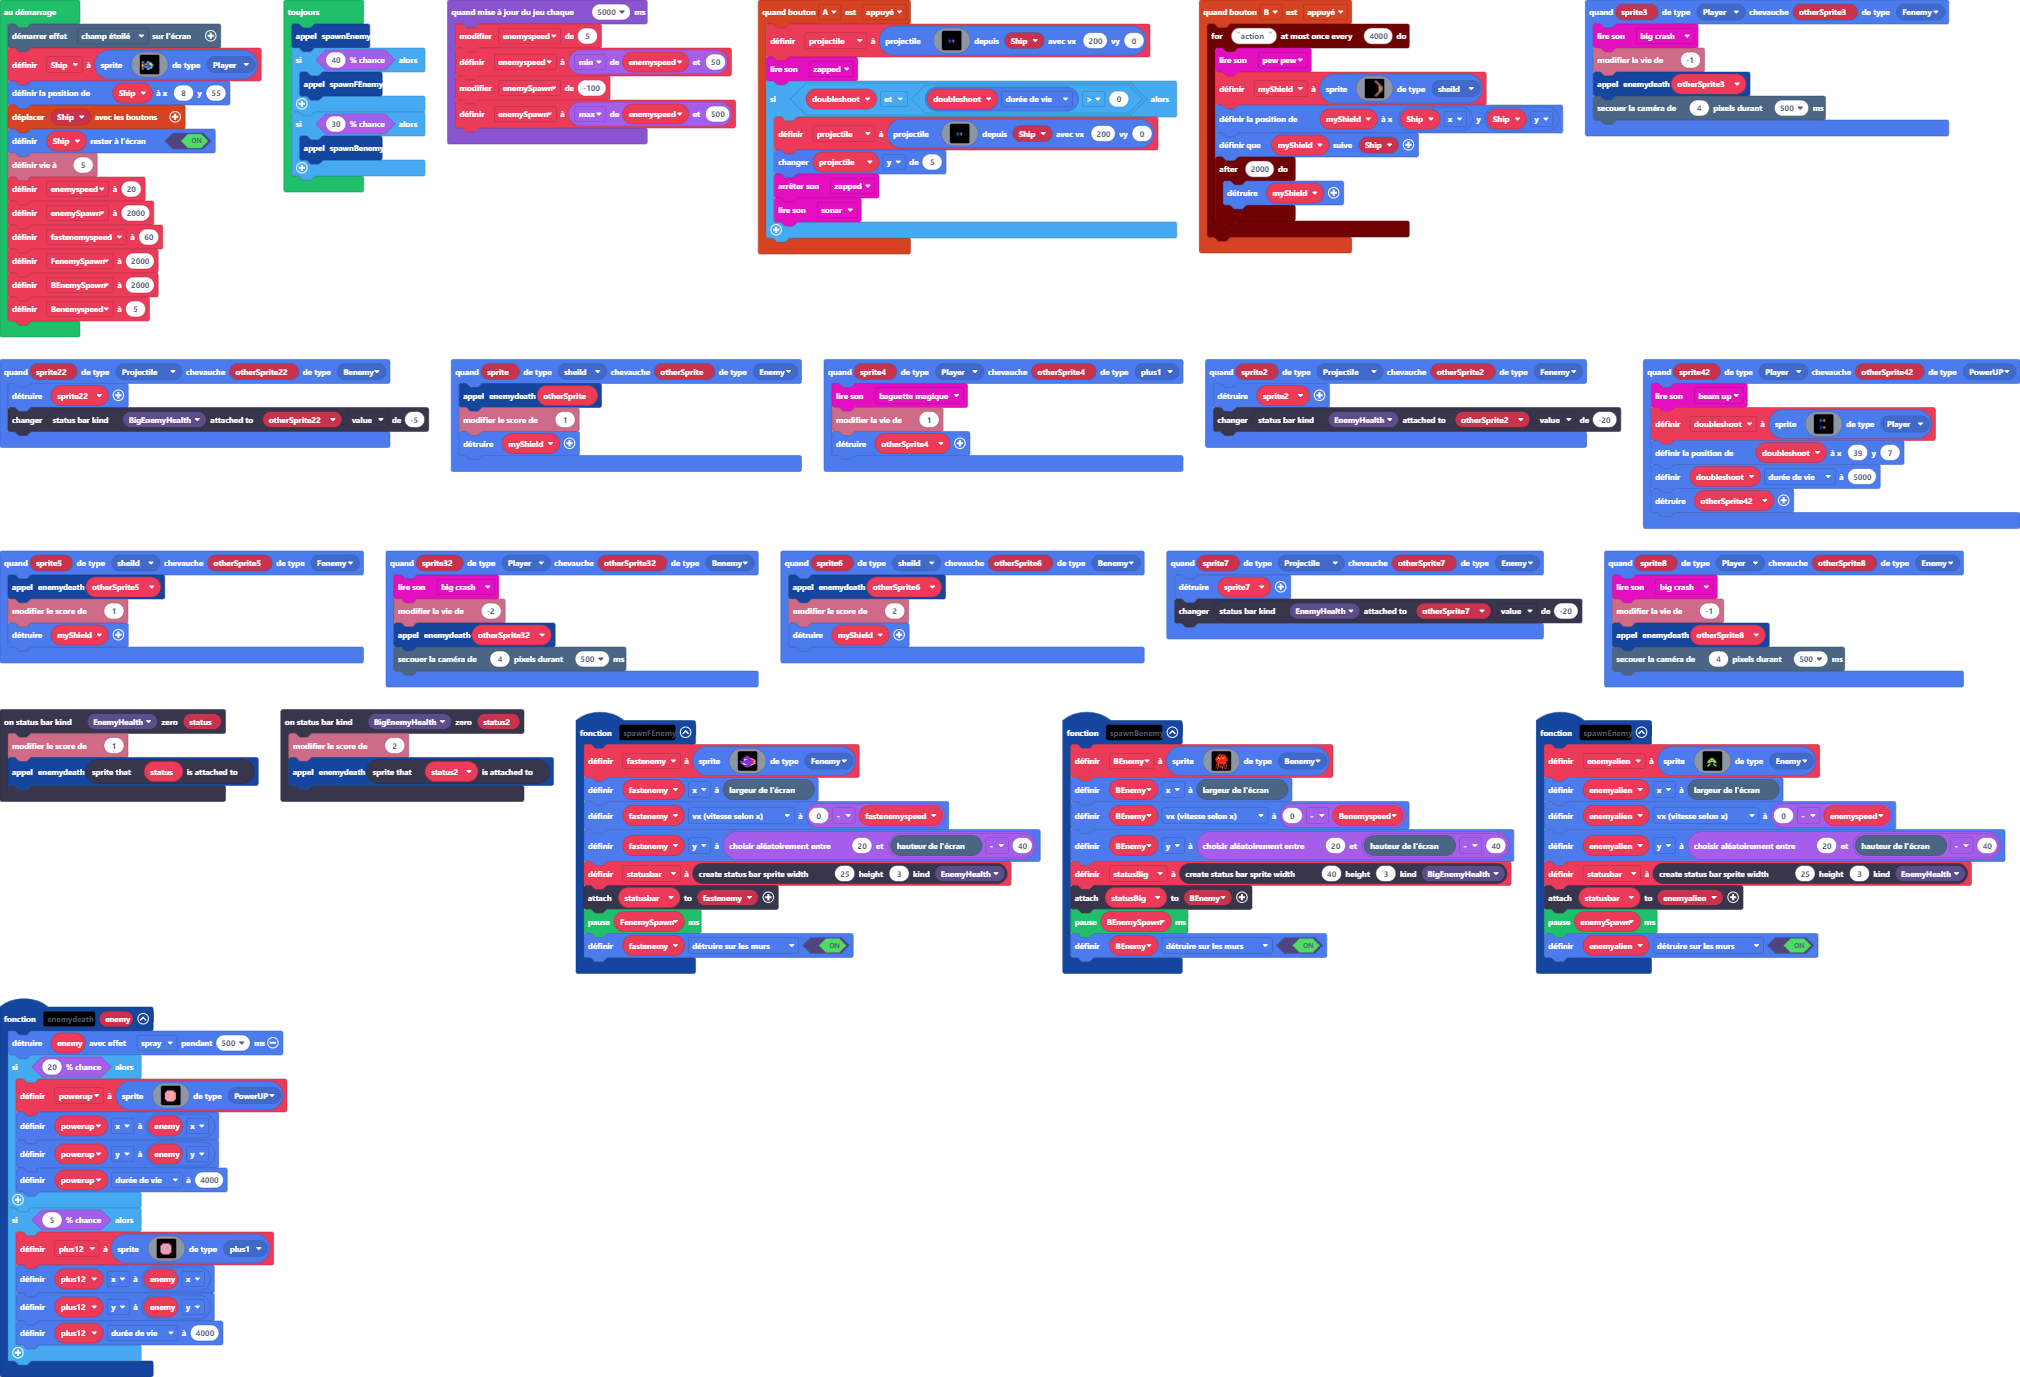
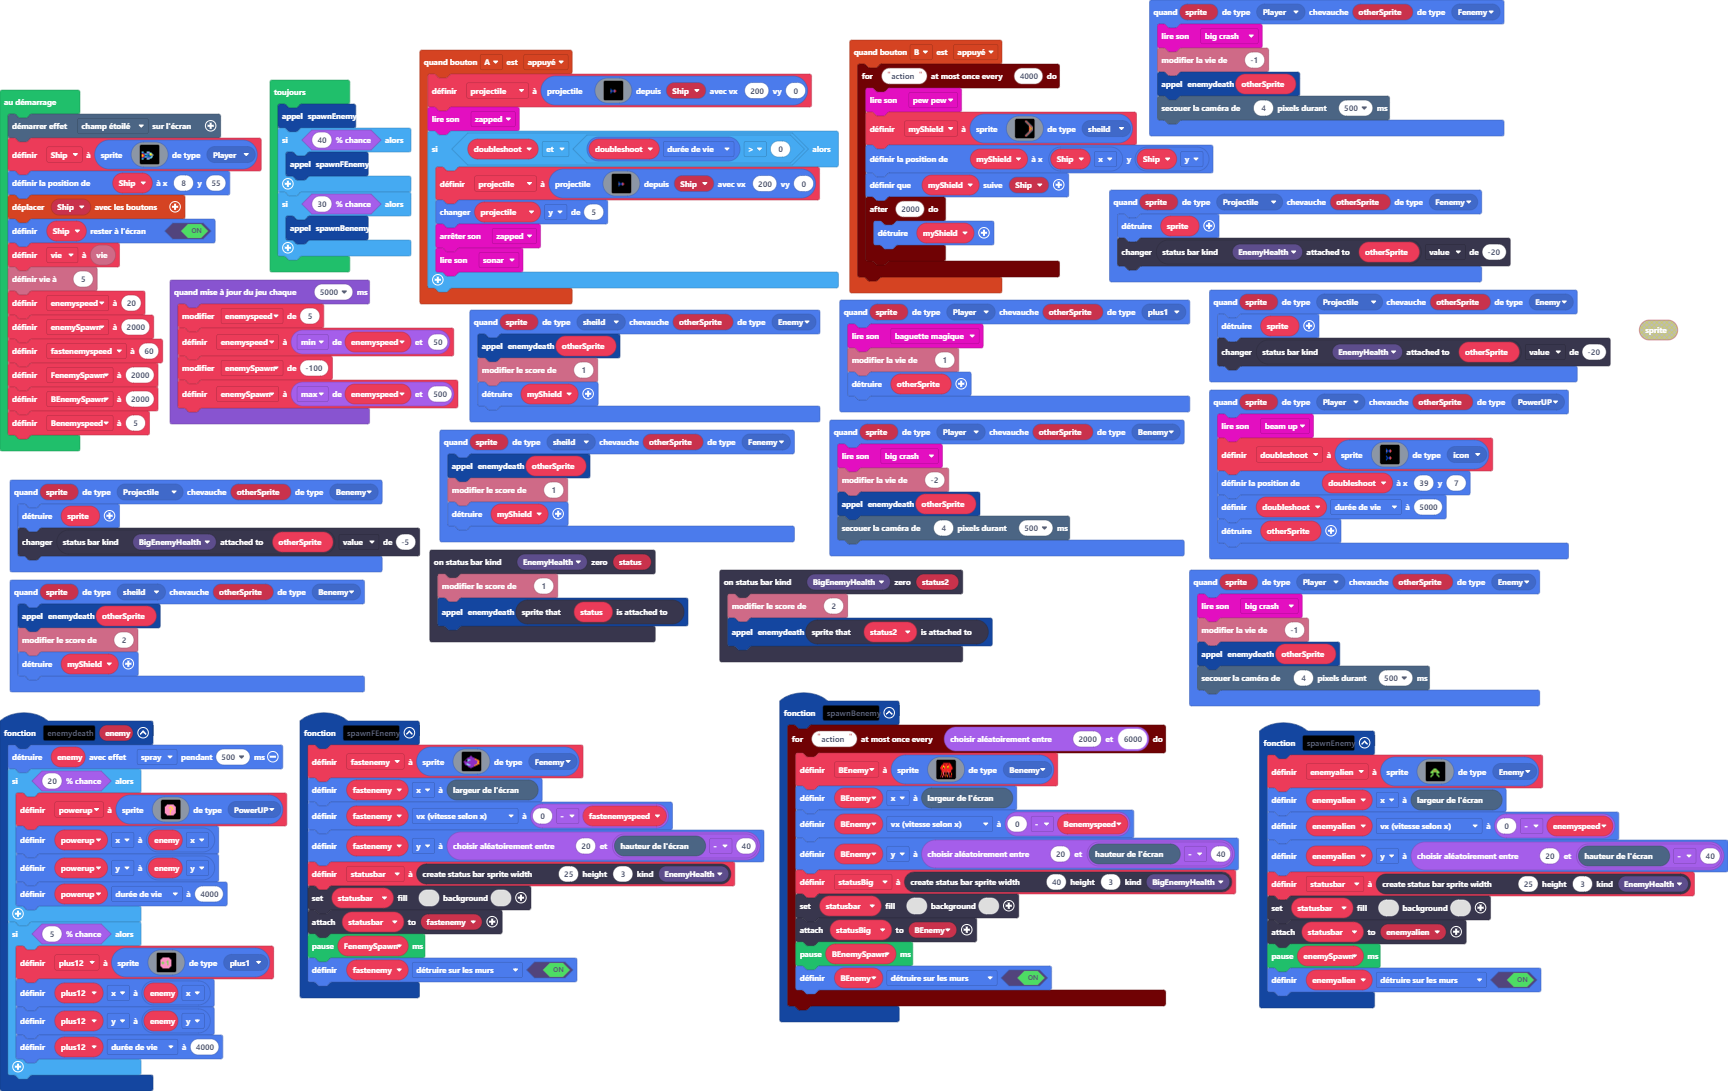
Mise à jour main.blocks, main.ts

diff --git a/main.ts b/main.ts
@@ -6,62 +6,31 @@ namespace SpriteKind {
     export const Fenemy = SpriteKind.create()
     export const Benemy = SpriteKind.create()
     export const plus1 = SpriteKind.create()
+    export const icon = SpriteKind.create()
 }
 namespace StatusBarKind {
     export const bosshealth = StatusBarKind.create()
     export const BigEnemyHealth = StatusBarKind.create()
 }
-sprites.onOverlap(SpriteKind.Player, SpriteKind.Fenemy, function (sprite3, otherSprite3) {
+sprites.onOverlap(SpriteKind.Player, SpriteKind.Fenemy, function (sprite, otherSprite) {
     music.bigCrash.play()
     info.changeLifeBy(-1)
-    enemydeath(otherSprite3)
+    enemydeath(otherSprite)
     scene.cameraShake(4, 500)
 })
-sprites.onOverlap(SpriteKind.Projectile, SpriteKind.Benemy, function (sprite22, otherSprite22) {
-    sprite22.destroy()
-    statusbars.getStatusBarAttachedTo(StatusBarKind.BigEnemyHealth, otherSprite22).value += -5
+sprites.onOverlap(SpriteKind.Player, SpriteKind.plus1, function (sprite, otherSprite) {
+    music.magicWand.play()
+    info.changeLifeBy(1)
+    otherSprite.destroy()
 })
 sprites.onOverlap(SpriteKind.sheild, SpriteKind.Enemy, function (sprite, otherSprite) {
     enemydeath(otherSprite)
     info.changeScoreBy(1)
     myShield.destroy()
 })
-sprites.onOverlap(SpriteKind.Player, SpriteKind.PowerUP, function (sprite42, otherSprite42) {
-    music.beamUp.play()
-    doubleshoot = sprites.create(img`
-        . . . . . . . . . . . . . . . . 
-        . . . . . . . . . . . . . . . . 
-        . . . . 8 . . . . . . . . . . . 
-        . . . . 8 8 . 8 4 . . . . . . . 
-        . . . . 4 8 8 a a 2 . . . . . . 
-        . . . . 8 8 . 8 4 . . . . . . . 
-        . . . . 8 . . . . . . . . . . . 
-        . . . . . . . . . . . . . . . . 
-        . . . . . . . . . . . . . . . . 
-        . . . . 8 . . . . . . . . . . . 
-        . . . . 8 8 . 8 4 . . . . . . . 
-        . . . . . 8 8 a a 2 . . . . . . 
-        . . . . 8 8 . 8 4 . . . . . . . 
-        . . . . 8 . . . . . . . . . . . 
-        . . . . . . . . . . . . . . . . 
-        . . . . . . . . . . . . . . . . 
-        `, SpriteKind.Player)
-    doubleshoot.setPosition(39, 7)
-    doubleshoot.lifespan = 5000
-    otherSprite42.destroy()
-})
-sprites.onOverlap(SpriteKind.Projectile, SpriteKind.Enemy, function (sprite7, otherSprite7) {
-    sprite7.destroy()
-    statusbars.getStatusBarAttachedTo(StatusBarKind.EnemyHealth, otherSprite7).value += -20
-})
-sprites.onOverlap(SpriteKind.Player, SpriteKind.plus1, function (sprite4, otherSprite4) {
-    music.magicWand.play()
-    info.changeLifeBy(1)
-    otherSprite4.destroy()
-})
-sprites.onOverlap(SpriteKind.Projectile, SpriteKind.Fenemy, function (sprite2, otherSprite2) {
-    sprite2.destroy()
-    statusbars.getStatusBarAttachedTo(StatusBarKind.EnemyHealth, otherSprite2).value += -20
+sprites.onOverlap(SpriteKind.Projectile, SpriteKind.Fenemy, function (sprite, otherSprite) {
+    sprite.destroy()
+    statusbars.getStatusBarAttachedTo(StatusBarKind.EnemyHealth, otherSprite).value += -20
 })
 controller.A.onEvent(ControllerButtonEvent.Pressed, function () {
     projectile = sprites.createProjectileFromSprite(img`
@@ -111,18 +80,6 @@ statusbars.onZero(StatusBarKind.EnemyHealth, function (status) {
     info.changeScoreBy(1)
     enemydeath(status.spriteAttachedTo())
 })
-sprites.onOverlap(SpriteKind.Player, SpriteKind.Enemy, function (sprite8, otherSprite8) {
-    music.bigCrash.play()
-    info.changeLifeBy(-1)
-    enemydeath(otherSprite8)
-    scene.cameraShake(4, 500)
-})
-sprites.onOverlap(SpriteKind.Player, SpriteKind.Benemy, function (sprite32, otherSprite32) {
-    music.bigCrash.play()
-    info.changeLifeBy(-2)
-    enemydeath(otherSprite32)
-    scene.cameraShake(4, 500)
-})
 function spawnFEnemy () {
     fastenemy = sprites.create(img`
         . . . . . . . . . . . . . . . . 
@@ -146,6 +103,7 @@ function spawnFEnemy () {
     fastenemy.vx = 0 - fastenemyspeed
     fastenemy.y = randint(20, scene.screenHeight() - 40)
     statusbar = statusbars.create(25, 3, StatusBarKind.EnemyHealth)
+    statusbar.setColor(0, 0)
     statusbar.attachToSprite(fastenemy)
     pause(FenemySpawn)
     fastenemy.setFlag(SpriteFlag.DestroyOnWall, true)
@@ -187,55 +145,68 @@ controller.B.onEvent(ControllerButtonEvent.Pressed, function () {
     })
 })
 function spawnBenemy () {
-    BEnemy = sprites.create(img`
-        ................................
-        ................................
-        ................................
-        ..........22222222222222........
-        ..........22222222222222........
-        .........22f222222222f2222......
-        .........222f2222222f22222......
-        .......222222ff222ff2222222.....
-        ......222252222222225222222.....
-        ......222255222222255222222.....
-        .....22222555222225552222222....
-        .....222225552222255522222222...
-        ....222225ff5222225ff52222222...
-        ....222225ff5222225ff52222222...
-        .....222222222222222222222222...
-        .....22222222e22e222222222222...
-        .....22222222222222222222222....
-        .......2222222222222222222......
-        .......2222222222222222222......
-        .......222ee4eeeee44e22222......
-        .......2222eeeeeeeee232222......
-        .......22232222222222322222.....
-        .......22.32..2..2...32...2.....
-        .......52.32..2..2...32...2.....
-        .......52.32..2..2...32...25....
-        .......22.32..2..2...32...25....
-        .......2..32.22..22..32...22....
-        ......22..22.25..52....2...2....
-        .....22..22..25..552...22..2....
-        .....2..23...22...52...32..2....
-        .....2..23....2...22...32..2....
-        .....2..23....2...2....32..2....
-        `, SpriteKind.Benemy)
-    BEnemy.x = scene.screenWidth()
-    BEnemy.vx = 0 - Benemyspeed
-    BEnemy.y = randint(20, scene.screenHeight() - 40)
-    statusBig = statusbars.create(40, 3, StatusBarKind.BigEnemyHealth)
-    statusBig.attachToSprite(BEnemy)
-    pause(BEnemySpawn)
-    BEnemy.setFlag(SpriteFlag.DestroyOnWall, true)
+    timer.throttle("action", randint(2000, 6000), function () {
+        BEnemy = sprites.create(img`
+            ................................
+            ................................
+            ................................
+            ..........22222222222222........
+            ..........22222222222222........
+            .........22f222222222f2222......
+            .........222f2222222f22222......
+            .......222222ff222ff2222222.....
+            ......222252222222225222222.....
+            ......222255222222255222222.....
+            .....22222555222225552222222....
+            .....222225552222255522222222...
+            ....222225ff5222225ff52222222...
+            ....222225ff5222225ff52222222...
+            .....222222222222222222222222...
+            .....22222222e22e222222222222...
+            .....22222222222222222222222....
+            .......2222222222222222222......
+            .......2222222222222222222......
+            .......222ee4eeeee44e22222......
+            .......2222eeeeeeeee232222......
+            .......22232222222222322222.....
+            .......22.32..2..2...32...2.....
+            .......52.32..2..2...32...2.....
+            .......52.32..2..2...32...25....
+            .......22.32..2..2...32...25....
+            .......2..32.22..22..32...22....
+            ......22..22.25..52....2...2....
+            .....22..22..25..552...22..2....
+            .....2..23...22...52...32..2....
+            .....2..23....2...22...32..2....
+            .....2..23....2...2....32..2....
+            `, SpriteKind.Benemy)
+        BEnemy.x = scene.screenWidth()
+        BEnemy.vx = 0 - Benemyspeed
+        BEnemy.y = randint(20, scene.screenHeight() - 40)
+        statusBig = statusbars.create(40, 3, StatusBarKind.BigEnemyHealth)
+        statusbar.setColor(0, 0)
+        statusBig.attachToSprite(BEnemy)
+        pause(BEnemySpawn)
+        BEnemy.setFlag(SpriteFlag.DestroyOnWall, true)
+    })
 }
 statusbars.onZero(StatusBarKind.BigEnemyHealth, function (status2) {
     info.changeScoreBy(2)
     enemydeath(status2.spriteAttachedTo())
 })
-sprites.onOverlap(SpriteKind.sheild, SpriteKind.Benemy, function (sprite6, otherSprite6) {
-    enemydeath(otherSprite6)
-    info.changeScoreBy(2)
+sprites.onOverlap(SpriteKind.Player, SpriteKind.Benemy, function (sprite, otherSprite) {
+    music.bigCrash.play()
+    info.changeLifeBy(-2)
+    enemydeath(otherSprite)
+    scene.cameraShake(4, 500)
+})
+sprites.onOverlap(SpriteKind.Projectile, SpriteKind.Benemy, function (sprite, otherSprite) {
+    sprite.destroy()
+    statusbars.getStatusBarAttachedTo(StatusBarKind.BigEnemyHealth, otherSprite).value += -5
+})
+sprites.onOverlap(SpriteKind.sheild, SpriteKind.Fenemy, function (sprite, otherSprite) {
+    enemydeath(otherSprite)
+    info.changeScoreBy(1)
     myShield.destroy()
 })
 function spawnEnemy () {
@@ -261,10 +232,44 @@ function spawnEnemy () {
     enemyalien.vx = 0 - enemyspeed
     enemyalien.y = randint(20, scene.screenHeight() - 40)
     statusbar = statusbars.create(25, 3, StatusBarKind.EnemyHealth)
+    statusbar.setColor(0, 0)
     statusbar.attachToSprite(enemyalien)
     pause(enemySpawn)
     enemyalien.setFlag(SpriteFlag.DestroyOnWall, true)
 }
+sprites.onOverlap(SpriteKind.Player, SpriteKind.PowerUP, function (sprite, otherSprite) {
+    music.beamUp.play()
+    doubleshoot = sprites.create(img`
+        . . . . . . . . . . . . . . . . 
+        . . . . . . . . . . . . . . . . 
+        . . . . 8 . . . . . . . . . . . 
+        . . . . 8 8 . 8 4 . . . . . . . 
+        . . . . 4 8 8 a a 2 . . . . . . 
+        . . . . 8 8 . 8 4 . . . . . . . 
+        . . . . 8 . . . . . . . . . . . 
+        . . . . . . . . . . . . . . . . 
+        . . . . . . . . . . . . . . . . 
+        . . . . 8 . . . . . . . . . . . 
+        . . . . 8 8 . 8 4 . . . . . . . 
+        . . . . . 8 8 a a 2 . . . . . . 
+        . . . . 8 8 . 8 4 . . . . . . . 
+        . . . . 8 . . . . . . . . . . . 
+        . . . . . . . . . . . . . . . . 
+        . . . . . . . . . . . . . . . . 
+        `, SpriteKind.icon)
+    doubleshoot.setPosition(39, 7)
+    doubleshoot.lifespan = 5000
+    otherSprite.destroy()
+})
+sprites.onOverlap(SpriteKind.sheild, SpriteKind.Benemy, function (sprite, otherSprite) {
+    enemydeath(otherSprite)
+    info.changeScoreBy(2)
+    myShield.destroy()
+})
+sprites.onOverlap(SpriteKind.Projectile, SpriteKind.Enemy, function (sprite, otherSprite) {
+    sprite.destroy()
+    statusbars.getStatusBarAttachedTo(StatusBarKind.EnemyHealth, otherSprite).value += -20
+})
 function enemydeath (enemy: Sprite) {
     enemy.destroy(effects.spray, 500)
     if (Math.percentChance(20)) {
@@ -314,10 +319,11 @@ function enemydeath (enemy: Sprite) {
         plus12.lifespan = 4000
     }
 }
-sprites.onOverlap(SpriteKind.sheild, SpriteKind.Fenemy, function (sprite5, otherSprite5) {
-    enemydeath(otherSprite5)
-    info.changeScoreBy(1)
-    myShield.destroy()
+sprites.onOverlap(SpriteKind.Player, SpriteKind.Enemy, function (sprite, otherSprite) {
+    music.bigCrash.play()
+    info.changeLifeBy(-1)
+    enemydeath(otherSprite)
+    scene.cameraShake(4, 500)
 })
 let plus12: Sprite = null
 let powerup: Sprite = null
@@ -326,8 +332,8 @@ let statusBig: StatusBarSprite = null
 let BEnemy: Sprite = null
 let statusbar: StatusBarSprite = null
 let fastenemy: Sprite = null
-let projectile: Sprite = null
 let doubleshoot: Sprite = null
+let projectile: Sprite = null
 let myShield: Sprite = null
 let Benemyspeed = 0
 let BEnemySpawn = 0
@@ -358,6 +364,7 @@ Ship = sprites.create(img`
 Ship.setPosition(8, 55)
 controller.moveSprite(Ship)
 Ship.setStayInScreen(true)
+let vie = info.life()
 info.setLife(5)
 enemyspeed = 20
 enemySpawn = 2000
